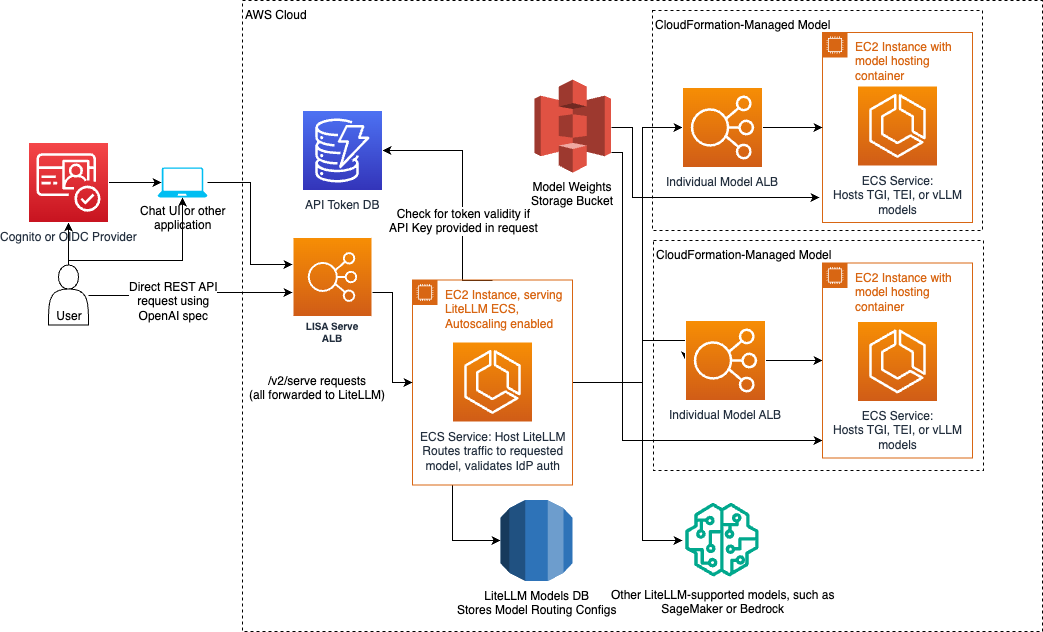
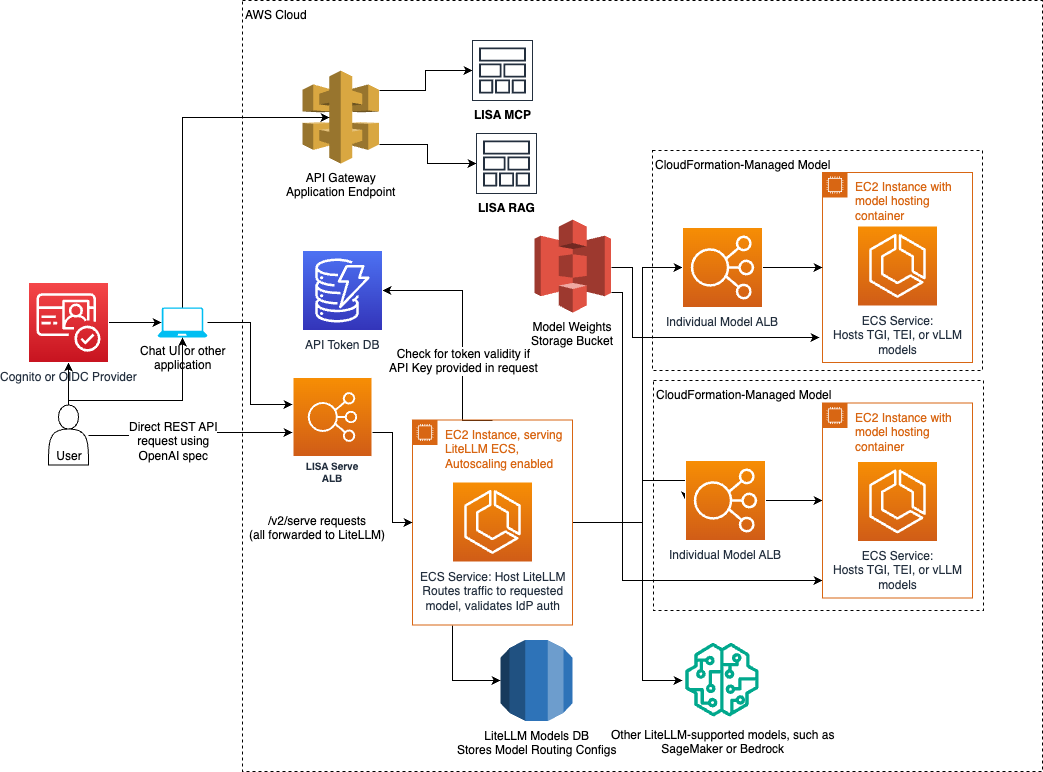
Documentation updates

Changed region(s): [[0.0, 0.0301, 1.0, 1.0], [0.2148, 0.0, 0.3068, 0.0301], [0.5523, 0.6614, 0.6136, 0.6915]]

diff --git a/lib/user-interface/react/src/components/model-management/create-model/GuardrailsConfig.tsx b/lib/user-interface/react/src/components/model-management/create-model/GuardrailsConfig.tsx
@@ -147,7 +147,7 @@ export function GuardrailsConfig (props: GuardrailsConfigProps): ReactElement {
                                         <FormField
                                             label='Guardrail Name'
                                             errorText={props.formErrors?.guardrailsConfig?.guardrails?.[key]?.guardrailName}
-                                            description='A friendly name for this guardrail.'
+                                            description='Name of the AWS Bedrock guardrail. This must match the name of the guardrail in AWS Bedrock.'
                                         >
                                             <Input
                                                 value={guardrail.guardrailName}

diff --git a/lib/user-interface/react/src/components/configuration/ActivatedUserComponents.tsx b/lib/user-interface/react/src/components/configuration/ActivatedUserComponents.tsx
@@ -40,8 +40,8 @@ const advancedOptions = {
     viewMetaData: 'View chat meta-data',
     deleteSessionHistory: 'Delete Session History',
     editChatHistoryBuffer: 'Edit chat history buffer',
-    enableModelComparisonUtility: 'Enable Model Comparison Utility',
-    encryptSession: 'Enable Session Encryption',
+    enableModelComparisonUtility: 'Model Comparison Utility',
+    encryptSession: 'Session Encryption',
 };
 
 const mcpOptions = {

diff --git a/lib/docs/admin/architecture.md b/lib/docs/admin/architecture.md
@@ -1,18 +1,14 @@
 # Architecture Overview
 
-LISA’s major components include Serve, a Chat user interface (UI), and retrieval augmented generation (RAG).
-Serve is required but the remaining components are optional. LISA also offers APIs for customers using LISA for model
-hosting and orchestration.
+LISA’s major components include Serve, a Chat user interface (UI), retrieval augmented generation (RAG), and model context protocol (MCP).
+LISA Serve and LISA MCP are standalone core products and the remaining components are optional. LISA also offers APIs for customers using LISA for model hosting and orchestration.
 
-![LISA Overall Architecture](../assets/LisaArchitecture.png)
-
-* **Serve:** This is the core of LISA. Serve supports model self-hosting in scalable Amazon ECS clusters.
+* **Serve:** This is the core of inference with LISA. Serve supports model self-hosting in scalable Amazon ECS clusters.
 Through LiteLLM, Serve is also compatible with 100+ models hosted by external model providers like Amazon Bedrock.
+* **MCP:** This is the core of self-hosting MCP Servers in a scaleable entriprise ready way. LISA MCP supports hosting STDIO/HTTP/SSE servers in ECS Fargate clusters with custom images or prebuilt images. It also supports copying in custom resources for hosting via S3.
 * **Chat UI:** Customers prompt LLMs, receive responses, create and modify prompt templates and personas, adjust model
 arguments, use advanced features like RAG and MCP, manage session history, export conversations and images, upload files to vector stores, and upload files for non-RAG in context references. Administrators can add, remove, and update models. They can control chat features available to customers without requiring code changes or application re-deployment. Administrators can set up vector stores and document ingestion pipelines to support RAG. The chat UI also offers user authentication. Administrators configure LISA with their identity provider (IdP). Out of the box LISA supports the OIDC protocol.
-* **RAG:** LISA is compatible with Amazon OpenSearch or PostgreSQL's PGVector extension in Amazon RDS. LISA offers
-automatic document ingestion pipelines for customers to routinely load files into their vector stores. LISA will also
-soon support Amazon Bedrock Knowledge bases.
+* **RAG:** LISA is compatible with Amazon OpenSearch, Bedrock Knowledge Bases, and PostgreSQL's PGVector extension in Amazon RDS. LISA offers document ingestion with LangChain, this also includes automated pipelines for customers to routinely load files into their vector stores.
 * **APIs:** Customers leveraging LISA for model hosting and orchestration can integrate LISA with existing mission
 tooling or alternative front ends. LISA uses Amazon DynamoDB to store Tokens to interact with the exposed APIs.
   * Inference requests through LiteLLM support prompting LLMs configured with LISA. Prompts can support LISA’s RAG and
@@ -24,7 +20,7 @@ tooling or alternative front ends. LISA uses Amazon DynamoDB to store Tokens to 
 ## Serve
 ![LISA Serve Architecture](../assets/LisaServe.png)
 
-LISA Serve is the foundational, core component of the solution. It provides model self-hosting and integration with
+LISA Serve is the foundational, core component of the inference solution. It provides model self-hosting and integration with
 compatible external model providers. Serve supports text generation, image generation, and embedding models. Serve’s
 components are designed for scale and reliability. Serve can be accessed via LISA’s REST APIs, or through LISA’s chat
 user interface (UI). Regardless of origin, all inference requests are routed via an Application Load Balancer (ALB),
@@ -46,6 +42,42 @@ models compatible with Hugging Face’s
 retrieval via OpenSearch and PostgreSQL.
 * Direct requests to the LISA Serve ALB entrypoint must utilize the OpenAI API spec, which we support through the use
 * of the LiteLLM proxy.
+
+## MCP
+![LISA MCP Architecture](../assets/LisaMcp.png)
+
+LISA MCP is a standalone core product that provides scalable infrastructure for deploying and hosting Model Context Protocol (MCP) servers. It enables customers to self-host MCP servers in an enterprise-ready, scalable way. LISA MCP can be deployed independently of LISA Serve or configured to work seamlessly with LISA Serve and the Chat UI.
+
+Each MCP server deployed via LISA MCP is provisioned on AWS Fargate via Amazon ECS, fronted by Application Load Balancers (ALBs) and Network Load Balancers (NLBs), and published through the existing API Gateway. This architecture allows chat sessions to securely invoke MCP tools without leaving your VPC. All routes remain protected by the same API Gateway Lambda authorizer patterns that guards the rest of LISA, ensuring API Keys, IDP lockdown, and JWT group enforcement continue to apply automatically.
+
+**Server Types:** LISA MCP supports three MCP server types:
+* **STDIO servers:** Automatically wrapped with `mcp-proxy` and exposed over HTTP on port 8080
+* **HTTP servers:** Direct HTTP endpoints using the configured port (default 8000)
+* **SSE servers:** Server-Sent Events endpoints for streaming responses
+
+**Networking Architecture:** The networking follows a layered approach:
+* **API Gateway** receives MCP traffic on `/mcp/{serverId}` routes
+* **Network Load Balancer (NLB)** terminates the API Gateway VPC Link and forwards to the Application Load Balancer
+* **Application Load Balancer (ALB)** provides HTTP features including health checks, routing, and load balancing
+* **ECS Fargate Service** hosts the MCP server containers within your VPC using the same subnets and security groups as the MCP API stack
+
+**Lifecycle Management:** AWS Step Functions orchestrate the complete lifecycle of MCP servers, handling creation, update, deletion, start, and stop workflows. Each workflow provisions the required resources using CloudFormation templates, which manage infrastructure components like ECS Fargate services, load balancers, VPC Links, and auto-scaling configurations.
+
+**Key Features:**
+* Turn-key hosting for STDIO, HTTP, or SSE MCP servers with a single API/UI workflow
+* Dynamic container builds from pre-built images or S3 artifacts synced at deploy time
+* Auto-scaling with configurable Fargate min/max capacity, custom metrics, and scaling targets per server
+* Secure VPC networking with private ALB for internal traffic and NLB + VPC Link for API Gateway access
+* Group-aware routing to limit server visibility to specific identity provider groups or make them public
+* External integrations via API Gateway URLs, enabling trusted third-party agents, copilots, or workflow engines to invoke hosted MCP servers using the same credentials and auth controls
+
+**Technical Notes:**
+
+* MCP Server Lifecycle: Lifecycle operations such as create, update, delete, start, and stop are orchestrated by Step Functions workflows (`CreateMcpServer`, `UpdateMcpServer`, `DeleteMcpServer`). The MCP API Handler Lambda validates requests and manages server metadata in DynamoDB.
+* CloudFormation: Infrastructure components are provisioned using CloudFormation templates synthesized by the MCP server deployer Lambda, as defined in `mcp_server_deployer/src/lib/ecsMcpServer.ts`.
+* ECS Fargate: Each MCP server runs in its own ECS Fargate cluster with dedicated ALB and NLB. The Fargate cluster configuration is located in `mcp_server_deployer/src/lib/ecsFargateCluster.ts`.
+* Authentication: API Gateway enforces the same Lambda authorizer used across LISA (JWT validation + optional API key checks). The `{LISA_BEARER_TOKEN}` placeholder in connection details is automatically replaced with the user's bearer token at connection time.
+* Data Storage: Server metadata is stored in the `MCP_SERVERS_TABLE` DynamoDB table. When `DEPLOYMENT_PREFIX` is configured, completed servers are published to `McpConnectionsTable` so the chat application can surface them alongside externally hosted connections.
 
 ## Chat UI
 ![LISA Chatbot Architecture](../assets/LisaChat.png)
@@ -72,6 +104,7 @@ Administrator role have access to application configuration.
 * Administrators control which features are available without having to make code changes
 * Administrators can configure models with LISA via the model manage wizard
 * Administrators can add and manage vector stores and manage group access, and automatic ingestion pipelines
+* Administrators can configure hosted MCP Servers via the MCP Management menu
 
 ## Model Management
 ![LISA Model Management Architecture](../assets/LisaModelManagement.png)

diff --git a/README.md b/README.md
@@ -1,5 +1,6 @@
 # LLM Inference Solution for Amazon Dedicated Cloud (LISA)
 [![Full Documentation](https://img.shields.io/badge/Full%20Documentation-blue?style=for-the-badge&logo=Vite&logoColor=white)](https://awslabs.github.io/LISA/)
+[![Contact Us](https://img.shields.io/badge/Contact%20Us-green?style=for-the-badge&logo=maildotru&logoColor=white)](mailto:lisa-product-team@amazon.com)
 ## What is LISA?
 Our large language model (LLM) inference solution for the Amazon Dedicated Cloud (ADC), LISA, is an open source infrastructure-as-code solution. Customers deploy LISA directly into an Amazon Web Services (AWS) account. While specially designed for ADC regions that support government customers' most sensitive workloads, LISA is also compatible with commercial regions. LISA supports model self-hosting via Amazon Elastic Container Service (ECS). LISA's LiteLLM support also makes it compatible with 100+ models hosted by external model providers, including Amazon Bedrock. LISA further complements Amazon Bedrock by accelerating GenAI adoption. LISA's optional chat assistant user interface (UI) supports model management, model prompting, document summarization, chat session management, prompt libraries, retrieval augmented generation (RAG), automated document ingestion pipelines, and other advanced features. Customers can choose to integrate custom UIs directly with LISA, relying on LISA for centralized model orchestration, chat session management, and RAG. LISA is scalable and ready to support production use cases. The roadmap is customer-driven, with new capabilities launching monthly.
 ## Key Features

diff --git a/lib/docs/config/mcp.md b/lib/docs/config/mcp.md
@@ -1,8 +1,8 @@
 # Model Context Protocol (MCP)
 
 LISA supports Model Context Protocol (MCP), a popular open standard that enables developers to securely connect AI
-assistants to systems where data lives. Customers can connect MCP servers with LISA and use the tools hosted on that
-server. For example, if an MCP server is added to LISA that supports email/calendar actions then LISA customers can
+assistants to systems where data lives. Customers can connect 3rd Party and LISA hosted MCP servers within the chat UI and use the tools hosted on those
+servers. For example, if an MCP server is added to LISA that supports email/calendar actions then LISA customers can
 prompt for supported tasks. In this case, customers could request help sending calendar invites on their behalf to
 specific colleagues based on everyone’s availability. The LLM would automatically engage the appropriate MCP server
 tools and perform the necessary steps to complete the task.
